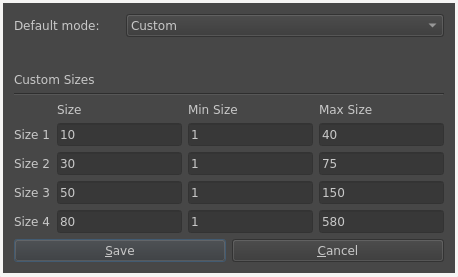
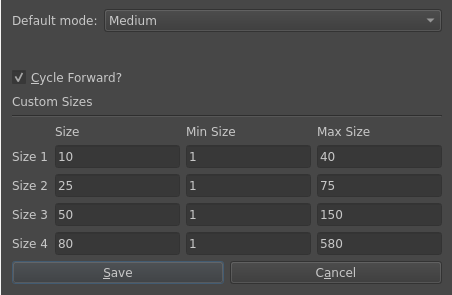
Shortcut feature: cycle forward or backward through sizes via shortcut

diff --git a/brushSizeDocker/Manual.html b/brushSizeDocker/Manual.html
@@ -31,6 +31,8 @@
         <li>Manual Size Input: Input box to type the exact size.</li>
         <li>Size Slider: Slider to adjust the preset</li>
         <li>User Defined Mode: Allows the user to define sizes and ranges in the dialog at the top-right of the docker.</li>
+        <li>Cycle through the sizes using a user-configurable shortcut, default: Ctrl+Alt+Shift+S</li>
+        <li>Configuration panel located at the top-right of the docker</li>
     </ol>
 
     <h2>Launching the Docker</h2>

diff --git a/brushSizeDocker/brushSizeDocker.py b/brushSizeDocker/brushSizeDocker.py
@@ -9,6 +9,7 @@ from math import floor
 from .settingsService import *
 from .settingsUI import *
 from .qtExtras import *
+from .brushSizeDockerExtension import *
 
 DOCKER_NAME = 'Brush Size Docker'
 
@@ -19,6 +20,8 @@ class BrushSizeDocker(DockWidget):
         self.sv = SettingsService()
         self.setting_dialog = None
         self.setUI()
+        self.currentSizeIndex = 2 # i.e. size 3
+        self.setExtension()
 
     def setUI(self):
         self.widget = QWidget(self)
@@ -87,6 +90,12 @@ class BrushSizeDocker(DockWidget):
 
         # Set initial preset to "Medium"
         self.update_preset()
+
+    def setExtension(self):
+        extension = BrushSizeDockerExtension( parent = Krita.instance() )
+        Krita.instance().addExtension( extension )
+
+        extension.SIGNAL_CYCLE.connect( self.nextBrushSize )
 
     def openDialog(self):
         if self.setting_dialog == None:
@@ -168,6 +177,7 @@ class BrushSizeDocker(DockWidget):
         return None
     
     def set_brush_size(self, index):
+        self.currentSizeIndex = index
         input_value = self.size_inputs[index].text()
         if input_value:
             try:
@@ -185,6 +195,12 @@ class BrushSizeDocker(DockWidget):
         self.size_inputs[index].setText(str(value))
         if not self.presetChange:
             self.set_brush_size(index)
+
+    def nextBrushSize(self):
+        brushQuantity = 4 # not as elegant but good enough TODO use the length of some of the sizes array...
+        orientation = -1 if self.sv.getCycleOrientation() else 1
+        self.currentSizeIndex =  (brushQuantity + (self.currentSizeIndex - orientation)) % brushQuantity
+        self.set_brush_size(self.currentSizeIndex)
 
     
     def canvasChanged(self, canvas):

diff --git a/brushSizeDocker/settingsUI.py b/brushSizeDocker/settingsUI.py
@@ -1,7 +1,8 @@
 from PyQt5.QtWidgets import (
     QComboBox, QGridLayout, QLabel, QLineEdit, QFrame,
-    QPushButton, QVBoxLayout, QDialog, QHBoxLayout
+    QPushButton, QVBoxLayout, QDialog, QHBoxLayout, QCheckBox
 )
+from PyQt5.QtCore import Qt
 from .settingsService import *
 from .qtExtras import *
 
@@ -24,11 +25,17 @@ class SettingsUI(QDialog):
         self.size_combobox.addItems(self.sv.getDropdown().keys())
         self.size_combobox.setCurrentIndex(self.sv.getDefaultModeInt())
 
-        combo_layout.addWidget(combo_label, 1)
-        combo_layout.addWidget(self.size_combobox, 3)
+        combo_layout.addWidget(combo_label, 0)
+        combo_layout.addWidget(self.size_combobox, 2)
         main_layout.addLayout(combo_layout)
 
         main_layout.addWidget(self.size_combobox)
+
+        #cycle orientation
+        self.cycleOrientationCheckbox = QCheckBox("Cycle Forward?")
+        self.cycleOrientationCheckbox.setCheckState(Qt.Checked if self.sv.getCycleOrientation() else Qt.Unchecked)
+        main_layout.addWidget(self.cycleOrientationCheckbox)
+        
 
         # Custom Sizes Label and Horizontal Line
         custom_sizes_layout = QVBoxLayout()
@@ -113,8 +120,10 @@ class SettingsUI(QDialog):
                 'min': int(inputs['min'].text()),
                 'max': int(inputs['max'].text())
             }
+        
+        cycleOrientationState = (self.cycleOrientationCheckbox.checkState() == Qt.Checked)
 
         # save
-        self.sv.saveSettings(defaultMode, customSettings)
+        self.sv.saveSettings(defaultMode, customSettings, cycleOrientationState)
         
         self.emitCloseDialog()

diff --git a/brushSizeDocker/settingsService.py b/brushSizeDocker/settingsService.py
@@ -15,6 +15,15 @@ class SettingsService():
 
     def getSettings(self):
         return self.settings
+    
+    def setCycleOrientation(self, orientation: bool):
+        self.getSettings()["cycleOrientation"] = orientation
+    
+    '''
+        if true cycles forward
+    '''
+    def getCycleOrientation(self) -> bool:
+        return bool(self.settings["cycleOrientation"])
 
     def setDefaultMode(self, defaultMode: str):
         self.getSettings()["defaultMode"] = defaultMode
@@ -100,9 +109,10 @@ class SettingsService():
         self.getSettings()["modes"]["custom"]["ranges"] = ranges
 
 
-    def saveSettings(self, defaultMode: str, customSettings: dict):
+    def saveSettings(self, defaultMode: str, customSettings: dict, cycleOrientation: bool):
         self.setDefaultMode(defaultMode)
         self.setCustomSettings(customSettings)
+        self.setCycleOrientation(cycleOrientation)
         json_setting = json.dumps(self.getSettings(), indent = 4)
         with open(os.path.dirname(os.path.realpath(__file__)) + '/settings.json', "w") as outfile:
             outfile.write(json_setting)

diff --git a/brushSizeDocker/brushSizeDockerExtension.py b/brushSizeDocker/brushSizeDockerExtension.py
@@ -1,0 +1,23 @@
+from krita import *
+from PyQt5 import QtCore
+
+class BrushSizeDockerExtension(Extension):
+
+    SIGNAL_CYCLE = QtCore.pyqtSignal()
+
+    def __init__(self, parent):
+        # This is initialising the parent, always important when subclassing.
+        super().__init__(parent)
+
+    def setup(self):
+        pass
+
+    def createActions(self, window):
+        pass
+        
+    def createActions(self, window):
+        action = window.createAction("cycleBrushSize", "Next brush size", "tools/scripts")
+        action.triggered.connect(self.cycleBrushSize)
+
+    def cycleBrushSize(self):
+        self.SIGNAL_CYCLE.emit()

diff --git a/README.md b/README.md
@@ -19,6 +19,9 @@ The Brush Size Docker plugin allows you to quickly and easily adjust the size of
 - **Manual Size Input**: Input box to type the exact size.
 - **Size Slider**: Slider to adjust the preset.
 - **User Defined Mode**: Allows the user to define sizes and ranges in the dialog at the top-right of the docker.
+- **Shortcut**: Cycle through the sizes using a user-configurable shortcut, default: Ctrl+Alt+Shift+S.
+- **Configuration panel**: located at the top-right of the docker.</li>
+
 
 
 ## Installation
